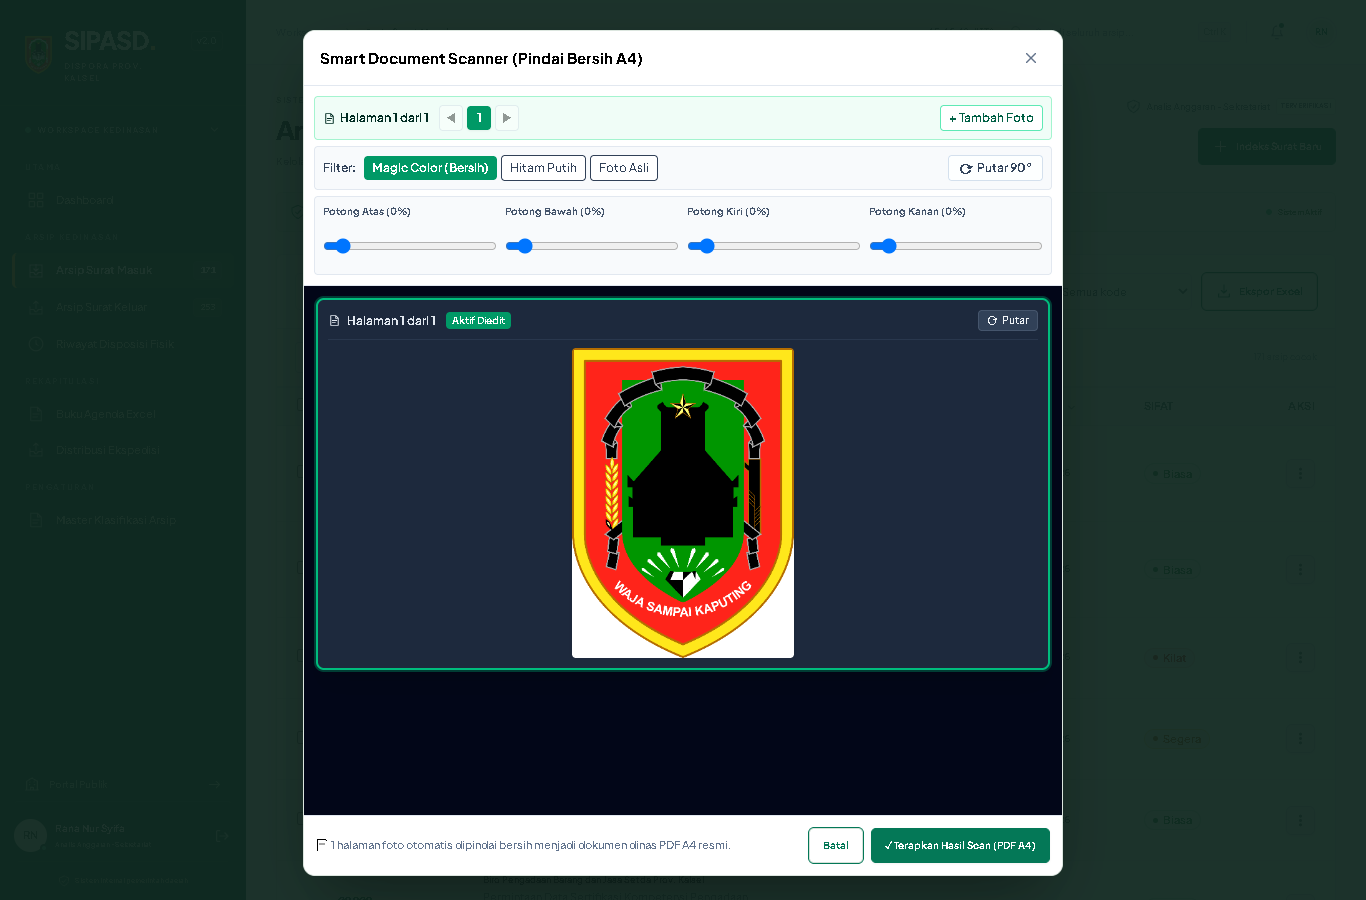
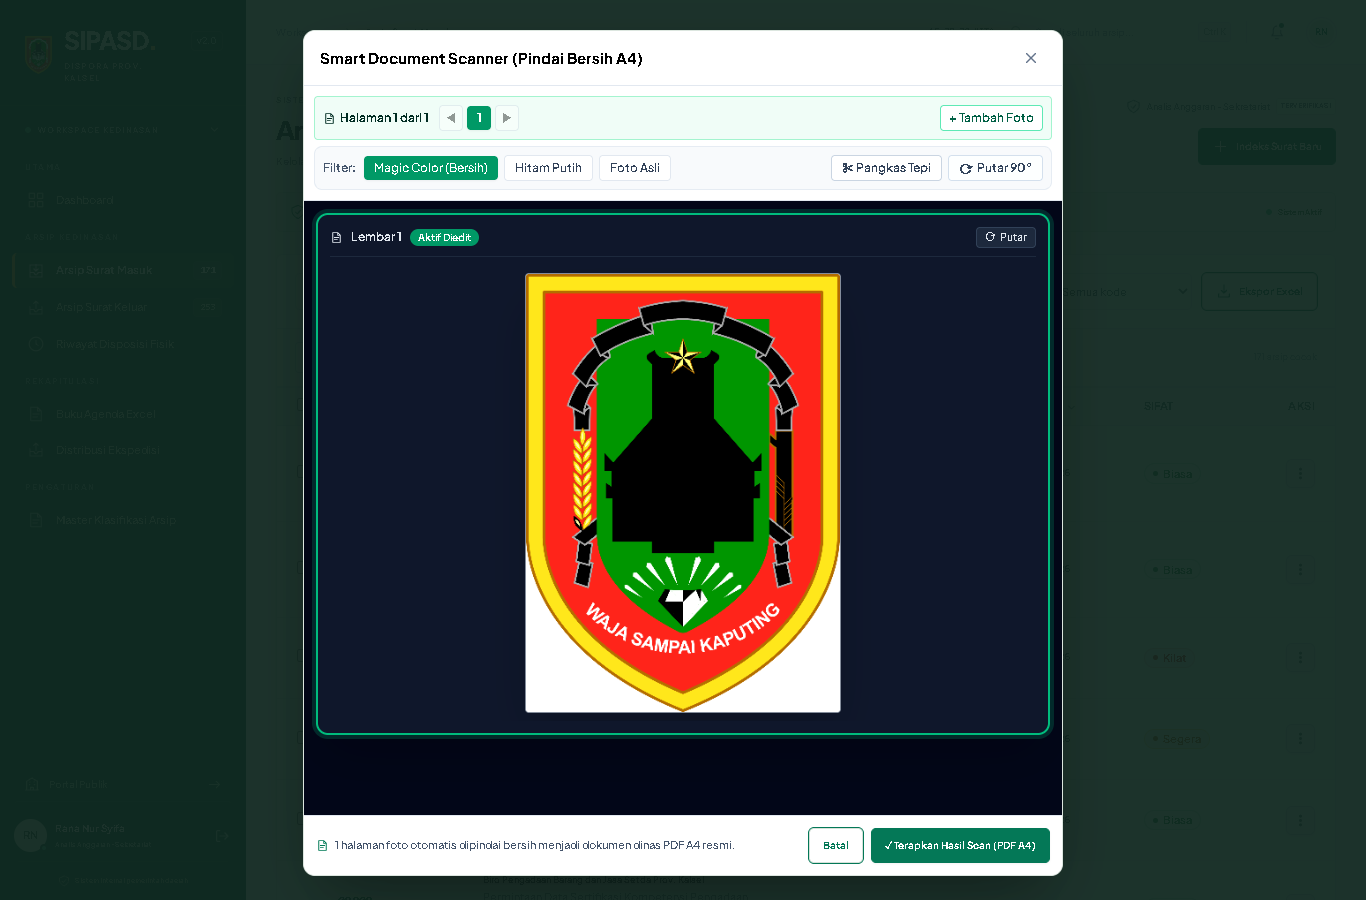
refactor(scanner): poles UI scanner multi-halaman lebih lega, kanvas 440px, pangkas tepi lipat, dan lencana lembar bersih

Changed region(s): [[0.2152, 0.1556, 0.7994, 0.84], [0.246, 0.9333, 0.5227, 0.9644]]

diff --git a/src/components/ScannerToolbar.tsx b/src/components/ScannerToolbar.tsx
@@ -1,6 +1,6 @@
 'use client';
 
-import Icon from './Icon';
+import { useState } from 'react';
 import type { PageScanConfig, ScannerFilterMode } from '@/lib/document-filter';
 
 interface Props {
@@ -9,18 +9,21 @@ interface Props {
 }
 
 export default function ScannerToolbar({ page, onUpdate }: Props) {
+  const [showCrop, setShowCrop] = useState(false);
+  const hasCrop = page.cropTop > 0 || page.cropBottom > 0 || page.cropLeft > 0 || page.cropRight > 0;
+
   const filterBtnClass = (mode: ScannerFilterMode) =>
-    `px-2 py-1 rounded text-xs transition-all ${
+    `px-2.5 py-1 rounded text-xs transition-all font-medium cursor-pointer ${
       page.filterMode === mode
-        ? 'bg-emerald-600 text-white font-bold'
-        : 'bg-white text-slate-700 border hover:bg-slate-50'
+        ? 'bg-emerald-600 text-white font-bold shadow-xs'
+        : 'bg-white text-slate-700 border border-slate-200 hover:bg-slate-100'
     }`;
 
   return (
-    <>
-      <div className="flex flex-wrap items-center justify-between gap-2 bg-slate-50 p-2 rounded border border-slate-200">
-        <div className="flex items-center gap-1">
-          <span className="font-semibold text-slate-700 mr-1">Filter:</span>
+    <div className="space-y-1.5">
+      <div className="flex flex-wrap items-center justify-between gap-2 bg-slate-50 p-2 rounded-lg border border-slate-200/80">
+        <div className="flex items-center gap-1.5 flex-wrap">
+          <span className="font-semibold text-slate-600 text-xs mr-0.5">Filter:</span>
           <button type="button" className={filterBtnClass('magic')} onClick={() => onUpdate({ filterMode: 'magic' })}>
             Magic Color (Bersih)
           </button>
@@ -31,58 +34,94 @@ export default function ScannerToolbar({ page, onUpdate }: Props) {
             Foto Asli
           </button>
         </div>
-        <button
-          type="button"
-          className="px-2.5 py-1 rounded bg-white border border-slate-300 hover:bg-slate-100 flex items-center gap-1 font-semibold text-slate-700 cursor-pointer"
-          onClick={() => onUpdate({ rotation: ((page.rotation + 90) % 360) as 0 | 90 | 180 | 270 })}
-        >
-          <span className="text-sm leading-none">⟳</span>
-          <span>Putar 90°</span>
-        </button>
+
+        <div className="flex items-center gap-1.5 flex-wrap">
+          <button
+            type="button"
+            className={`px-2.5 py-1 rounded text-xs flex items-center gap-1.5 font-semibold transition-all cursor-pointer ${
+              showCrop || hasCrop
+                ? 'bg-emerald-100 border border-emerald-400 text-emerald-950 shadow-2xs'
+                : 'bg-white border border-slate-300 text-slate-700 hover:bg-slate-100'
+            }`}
+            onClick={() => setShowCrop((v) => !v)}
+            title="Tampilkan / sembunyikan pengatur pangkas tepi"
+          >
+            <span>✂ Pangkas Tepi</span>
+            {hasCrop && <span className="w-1.5 h-1.5 rounded-full bg-emerald-600" />}
+          </button>
+
+          <button
+            type="button"
+            className="px-2.5 py-1 rounded bg-white border border-slate-300 hover:bg-slate-100 flex items-center gap-1 font-semibold text-slate-700 cursor-pointer text-xs"
+            onClick={() => onUpdate({ rotation: ((page.rotation + 90) % 360) as 0 | 90 | 180 | 270 })}
+            title="Putar halaman 90 derajat searah jarum jam"
+          >
+            <span className="text-sm leading-none">⟳</span>
+            <span>Putar 90°</span>
+          </button>
+        </div>
       </div>
 
-      <div className="grid grid-cols-2 sm:grid-cols-4 gap-2 bg-slate-50 p-2 rounded border border-slate-200 text-[11px]">
-        <label className="flex flex-col">
-          <span className="text-slate-600">Potong Atas ({page.cropTop}%)</span>
-          <input
-            type="range"
-            min="0"
-            max="40"
-            value={page.cropTop}
-            onChange={(e) => onUpdate({ cropTop: Number(e.target.value) })}
-          />
-        </label>
-        <label className="flex flex-col">
-          <span className="text-slate-600">Potong Bawah ({page.cropBottom}%)</span>
-          <input
-            type="range"
-            min="0"
-            max="40"
-            value={page.cropBottom}
-            onChange={(e) => onUpdate({ cropBottom: Number(e.target.value) })}
-          />
-        </label>
-        <label className="flex flex-col">
-          <span className="text-slate-600">Potong Kiri ({page.cropLeft}%)</span>
-          <input
-            type="range"
-            min="0"
-            max="40"
-            value={page.cropLeft}
-            onChange={(e) => onUpdate({ cropLeft: Number(e.target.value) })}
-          />
-        </label>
-        <label className="flex flex-col">
-          <span className="text-slate-600">Potong Kanan ({page.cropRight}%)</span>
-          <input
-            type="range"
-            min="0"
-            max="40"
-            value={page.cropRight}
-            onChange={(e) => onUpdate({ cropRight: Number(e.target.value) })}
-          />
-        </label>
-      </div>
-    </>
+      {(showCrop || hasCrop) && (
+        <div className="grid grid-cols-2 sm:grid-cols-4 gap-2 bg-emerald-50/70 p-2 rounded-lg border border-emerald-200 text-[11px] animate-fadeIn">
+          <label className="flex flex-col">
+            <div className="flex justify-between text-slate-700 font-medium">
+              <span>Atas</span>
+              <span>{page.cropTop}%</span>
+            </div>
+            <input
+              type="range"
+              min="0"
+              max="40"
+              value={page.cropTop}
+              className="accent-emerald-600 cursor-pointer"
+              onChange={(e) => onUpdate({ cropTop: Number(e.target.value) })}
+            />
+          </label>
+          <label className="flex flex-col">
+            <div className="flex justify-between text-slate-700 font-medium">
+              <span>Bawah</span>
+              <span>{page.cropBottom}%</span>
+            </div>
+            <input
+              type="range"
+              min="0"
+              max="40"
+              value={page.cropBottom}
+              className="accent-emerald-600 cursor-pointer"
+              onChange={(e) => onUpdate({ cropBottom: Number(e.target.value) })}
+            />
+          </label>
+          <label className="flex flex-col">
+            <div className="flex justify-between text-slate-700 font-medium">
+              <span>Kiri</span>
+              <span>{page.cropLeft}%</span>
+            </div>
+            <input
+              type="range"
+              min="0"
+              max="40"
+              value={page.cropLeft}
+              className="accent-emerald-600 cursor-pointer"
+              onChange={(e) => onUpdate({ cropLeft: Number(e.target.value) })}
+            />
+          </label>
+          <label className="flex flex-col">
+            <div className="flex justify-between text-slate-700 font-medium">
+              <span>Kanan</span>
+              <span>{page.cropRight}%</span>
+            </div>
+            <input
+              type="range"
+              min="0"
+              max="40"
+              value={page.cropRight}
+              className="accent-emerald-600 cursor-pointer"
+              onChange={(e) => onUpdate({ cropRight: Number(e.target.value) })}
+            />
+          </label>
+        </div>
+      )}
+    </div>
   );
 }

diff --git a/src/components/ScannerPageCard.tsx b/src/components/ScannerPageCard.tsx
@@ -46,30 +46,30 @@ export default function ScannerPageCard({
     <div
       ref={containerRef}
       id={`scanner-page-${index}`}
-      className={`rounded-lg p-2.5 transition-all text-xs cursor-pointer ${
+      className={`rounded-xl p-3 transition-all text-xs cursor-pointer ${
         isActive
-          ? 'bg-slate-800 border-2 border-emerald-500 shadow-xl ring-2 ring-emerald-500/30'
-          : 'bg-slate-900/90 border border-slate-700/80 opacity-80 hover:opacity-100'
+          ? 'bg-slate-900 border-2 border-emerald-500 shadow-2xl ring-4 ring-emerald-500/20'
+          : 'bg-slate-950/70 border border-slate-800/80 opacity-80 hover:opacity-100 hover:border-slate-700'
       }`}
       onClick={() => onSelect(index)}
     >
-      <div className="flex items-center justify-between gap-2 pb-2 mb-2 border-b border-slate-700/60 text-slate-200">
-        <div className="flex items-center gap-1.5 font-bold">
+      <div className="flex items-center justify-between gap-2 pb-2 mb-2 border-b border-slate-800 text-slate-200">
+        <div className="flex items-center gap-2 font-bold">
           <Icon name="file" size={13} />
-          <span>Halaman {index + 1} dari {total}</span>
+          <span>Lembar {index + 1}</span>
           {isActive ? (
-            <span className="bg-emerald-600 text-white text-[10px] px-1.5 py-0.5 rounded font-semibold ml-1">
+            <span className="bg-emerald-600 text-white text-[10px] px-2 py-0.5 rounded-full font-semibold shadow-2xs">
               Aktif Diedit
             </span>
           ) : (
-            <span className="text-slate-400 text-[10px] ml-1 font-normal">(Klik untuk edit)</span>
+            <span className="text-slate-400 text-[10px] font-normal">(Klik untuk edit)</span>
           )}
         </div>
 
         <div className="flex items-center gap-1.5" onClick={(e) => e.stopPropagation()}>
           <button
             type="button"
-            className="px-2 py-0.5 rounded bg-slate-700 hover:bg-slate-600 text-slate-100 text-[11px] flex items-center gap-1 border border-slate-600 cursor-pointer"
+            className="px-2 py-0.5 rounded bg-slate-800 hover:bg-slate-700 text-slate-200 text-[11px] flex items-center gap-1 border border-slate-700 cursor-pointer"
             onClick={() => onRotate(index)}
             title="Putar halaman ini 90°"
           >
@@ -80,24 +80,31 @@ export default function ScannerPageCard({
           {total > 1 && (
             <button
               type="button"
-              className="p-1 rounded text-rose-400 hover:text-rose-300 hover:bg-rose-950/40 cursor-pointer"
+              className="p-1 rounded text-rose-400 hover:text-rose-200 hover:bg-rose-950/40 cursor-pointer transition-colors"
               onClick={() => onRemove(index)}
-              title="Hapus halaman ini"
+              title="Hapus lembar foto ini"
             >
-              <Icon name="trash" size={12} />
+              <Icon name="trash" size={13} />
             </button>
           )}
         </div>
       </div>
 
-      <div className="flex items-center justify-center min-h-[160px] max-h-[320px] overflow-hidden">
-        {!image && <span className="text-slate-400 text-xs">Memuat foto...</span>}
+      <div className="flex items-center justify-center p-2 min-h-[220px] max-h-[460px] overflow-hidden">
+        {!image && (
+          <div className="flex items-center gap-2 text-slate-400 text-xs py-8">
+            <span className="w-2 h-2 rounded-full bg-emerald-500 animate-ping" />
+            <span>Memproses pratinjau lembar kertas...</span>
+          </div>
+        )}
         <canvas
           ref={(el) => {
             canvasRef.current = el;
             registerCanvas(index, el);
           }}
-          className={`max-h-[310px] max-w-full object-contain shadow-md rounded ${!image ? 'hidden' : 'block'}`}
+          className={`max-h-[440px] max-w-full object-contain bg-white rounded shadow-2xl border border-slate-700/60 transition-transform duration-200 ${
+            !image ? 'hidden' : 'block'
+          }`}
         />
       </div>
     </div>

diff --git a/src/components/SmartScannerModal.tsx b/src/components/SmartScannerModal.tsx
@@ -2,6 +2,7 @@
 
 import { useState, useRef, useEffect } from 'react';
 import Modal from './Modal';
+import Icon from './Icon';
 import ScannerPageNav from './ScannerPageNav';
 import ScannerToolbar from './ScannerToolbar';
 import ScannerPageCard from './ScannerPageCard';
@@ -149,11 +150,16 @@ export default function SmartScannerModal({ files, file, onApply, onClose }: Pro
         </div>
 
         <div className="flex-shrink-0 p-3 bg-white border-t border-slate-200 flex items-center justify-between gap-2 shadow-xs">
-          <span className="text-[11px] text-slate-500 font-medium">
-            {pages.length > 1
-              ? `📄 ${pages.length} halaman foto otomatis digabung menjadi 1 dokumen PDF A4 resmi.`
-              : '📄 1 halaman foto otomatis dipindai bersih menjadi dokumen dinas PDF A4 resmi.'}
-          </span>
+          <div className="flex items-center gap-1.5 text-[11px] text-slate-600 font-medium">
+            <span className="text-emerald-700">
+              <Icon name="file" size={13} />
+            </span>
+            <span>
+              {pages.length > 1
+                ? `${pages.length} halaman foto otomatis digabung menjadi 1 dokumen PDF A4 resmi.`
+                : '1 halaman foto otomatis dipindai bersih menjadi dokumen dinas PDF A4 resmi.'}
+            </span>
+          </div>
           <div className="flex items-center gap-2">
             <button
               type="button"
